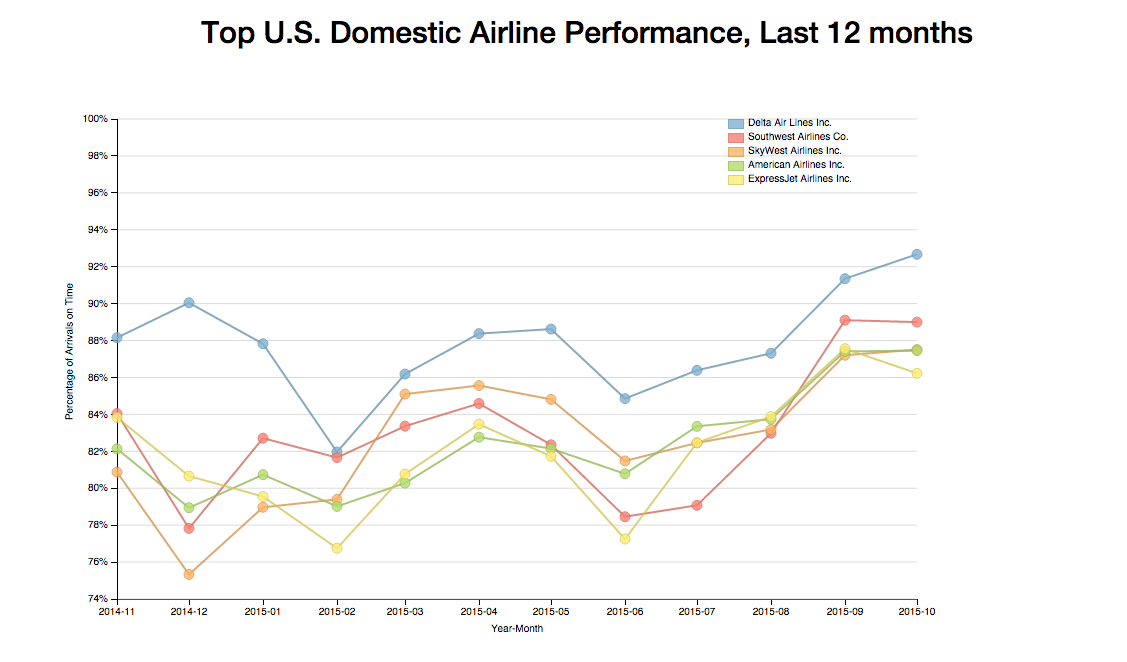
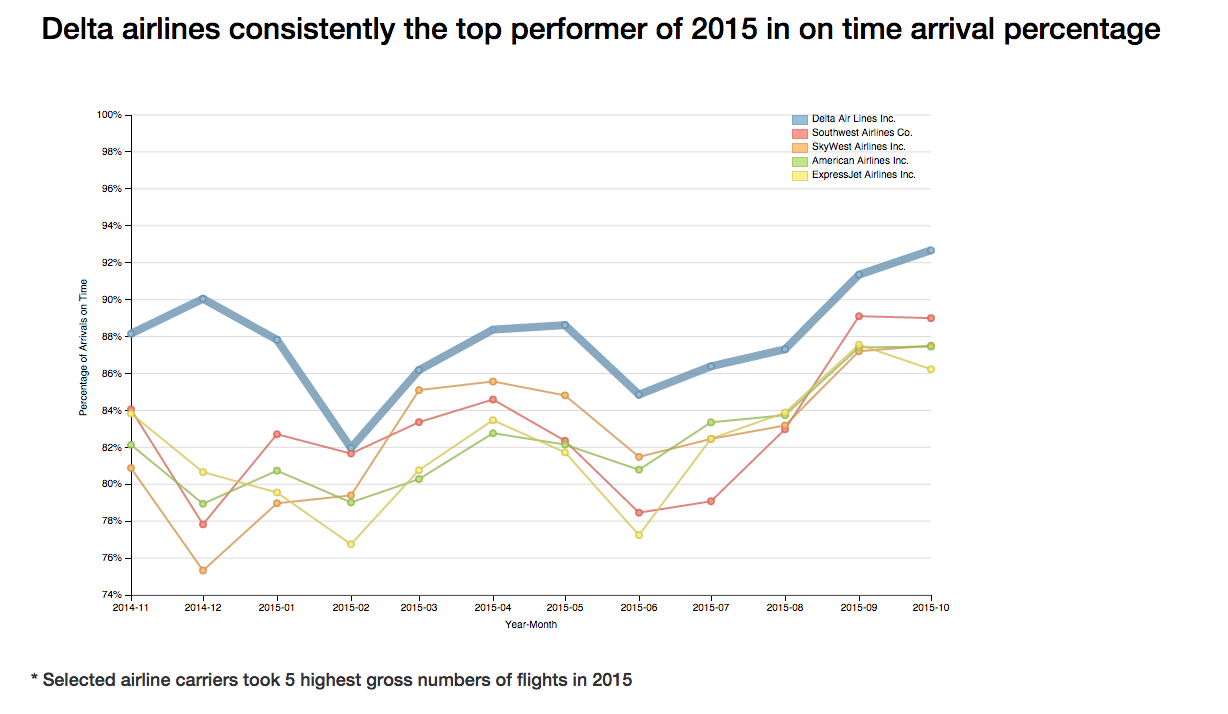
add note, title, thicker line after first submission

diff --git a/index-final.html b/index-final.html
@@ -17,7 +17,8 @@
       
       function draw(data) {
         'use strict';
- 
+        
+        // find minimum value of the time records
         var minOnTimeValue = (function(data, field) {
           var minimum = 1;
           data.forEach(function(record) {
@@ -27,49 +28,56 @@
           });
           return minimum;
         })(data, 'on_time_ct');
+
+        // set scale of y axis
         var minY = Math.max(Math.round(minOnTimeValue*10)/10-0.05,0),
             maxY = 1;
+
+        // add title
         d3.select('#content')
           .append('h2')
           .attr('id', 'title')
-          .text('Trend and Comparison: On-time Arrival Rates for Top U.S. Domestic Airlines, 2015');
+          .text('Delta airlines consistently the top performer of 2015 in on time arrival percentage');
+
+        // set svg with width and height
         var width = 1000,
             height = 600;
         var svg = dimple.newSvg('#content', width, height);
-        
         var myChart = new dimple.chart(svg, data);
+
         // set x axis
         var x = myChart.addTimeAxis('x', 'year_month');
         x.dateParseFormat = "%Y-%m";
         x.tickFormat = '%Y-%m';
         x.title = 'Year-Month';
+
         // set y axis
         var y = myChart.addMeasureAxis('y', 'on_time_ct');
         y.tickFormat = '%';
         y.overrideMin = minY;
         y.overrideMax = maxY;
         y.title = 'Percentage of Arrivals on Time';
+
+        // add lines and scatters to the chart
         myChart.addSeries('carrier', dimple.plot.line);
         myChart.addSeries('carrier', dimple.plot.scatter);
         myChart.addLegend(650, 60, 250, 60, 'right');
         myChart.draw();
 
-
+        // set radius and opacity for the scatters
         svg.selectAll("circle")
         .attr("opacity", 0.8)
         .attr("r", 3);
 
-        /*
-        var line = d3.svg.line()
-        .x(function(d) { return myChart.axes[0]._draw.scale()(d.x); })
-        .y(function(d) { return myChart.axes[1]._draw.scale()(d.y); });
-        d3.select("svg").select("g").append("path")
-        .datum([{x:myChart.axes[0]._min,y:0.83},{x:myChart.axes[0]._max,y:0.83}])
-        .attr("d",line)
-        .style("stroke","blue")
-        .style("stroke-width",3)
-        .text("average line")
-        */
+        // set delta line thicker
+        svg.select("path.dimple-delta-air-lines-inc-")
+        .attr("stroke-width",8);
+
+        // add notes for selected flights
+        d3.select('#content')
+        .append('h4')
+        .attr('id','text')
+        .text('* Selected airline carriers took 5 highest gross numbers of flights in 2015');
       }
     </script>
   </head>
